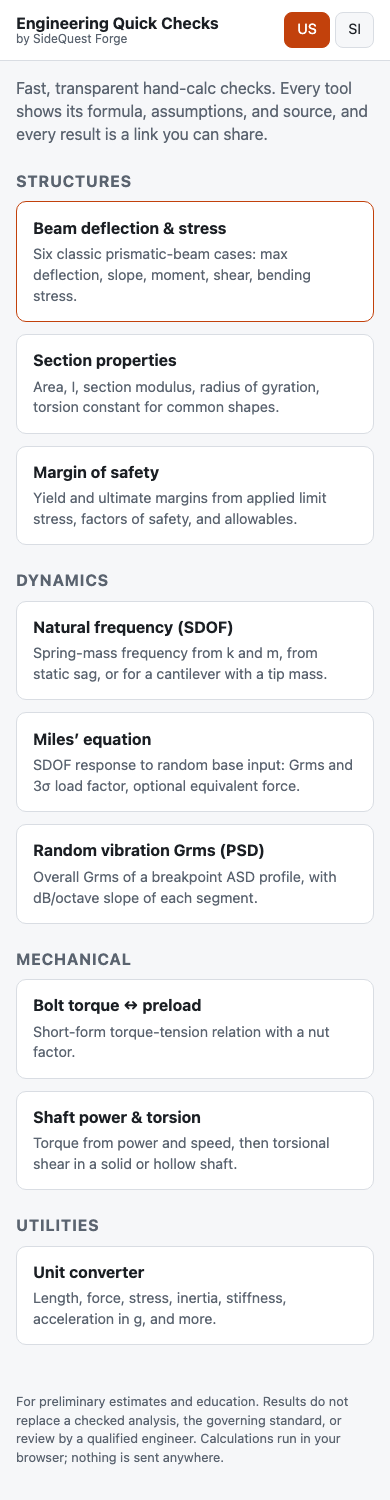
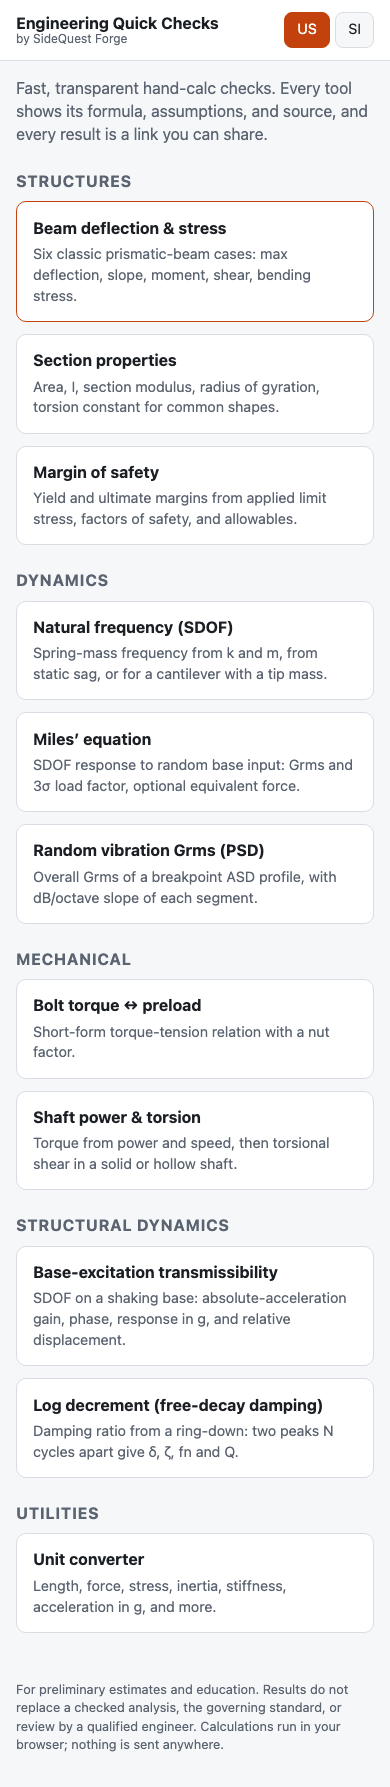
Add log decrement (free-decay damping) calculator with live ring-down plot

Changed region(s): [[0.0308, 0.0, 0.9538, 0.9813], [0.5846, 0.8587, 0.7385, 0.8893], [0.0308, 0.184, 0.0615, 0.2147]]

diff --git a/docs/tools.js b/docs/tools.js
@@ -242,4 +242,44 @@ export const TOOLS = [
       'Phase is response lag relative to base acceleration; peak TR is the closed-form peak of the TR curve (slightly above r = 1 for ζ > 0).'],
     refs: 'Rao, Mechanical Vibrations, base excitation; Harris & Piersol, Shock and Vibration Handbook, Ch. 3.',
   },
+  {
+    id: 'logdec', title: 'Log decrement (free-decay damping)', group: 'Structural Dynamics',
+    blurb: 'Damping ratio from a ring-down: two peaks N cycles apart give δ, ζ, fn and Q.',
+    inputs: [
+      { key: 'fd', label: 'Ringing frequency fd (measured)', dim: 'frequency', unit: 'Hz', def: [10, 10] },
+      { key: 'x1', label: 'First peak x₁', dim: 'length', def: [0.4, 10] },
+      { key: 'xN', label: 'Peak N cycles later', dim: 'length', def: [0.083, 2.075] },
+      { key: 'N', label: 'Cycles between peaks N', dim: 'none', def: [5, 5] },
+    ],
+    outputs: [
+      { key: 'zeta', label: 'Damping ratio ζ', dim: 'none' },
+      { key: 'delta', label: 'Log decrement δ', dim: 'none' },
+      { key: 'fn', label: 'Undamped natural frequency fn', dim: 'frequency' },
+      { key: 'Q', label: 'Q = 1/(2ζ)', dim: 'none' },
+      { key: 'approx_err_pct', label: 'Error of ζ ≈ δ/2π (%)', dim: 'none' },
+      { key: 'n_half', label: 'Cycles to halve amplitude', dim: 'none' },
+      { key: 't_half', label: 'Time to halve amplitude', dim: 'time' },
+    ],
+    compute: (v) => C.logDecrement({ fd: v.fd, x1: v.x1, xN: v.xN, N: v.N }),
+    demo: (v, canvas) => {
+      const t = C.logDecrement({ fd: v.fd, x1: v.x1, xN: v.xN, N: v.N }), cmax = v.N + 1.5;
+      const cs = Array.from({ length: 1200 }, (_, i) => i * cmax / 1199);
+      const env = (sgn) => ({ faint: true, pts: cs.map(c => [c, sgn * Math.exp(-t.delta * c)]) });
+      drawPlot(canvas, {
+        xmin: 0, xmax: cmax, ymin: -1, ymax: 1,
+        xlabel: 'Cycles of ringing (t · fd)', ylabel: 'x / x₁',
+        curves: [env(1), env(-1), { pts: cs.map(c => [c, C.ringdown(t.delta, c)]) }],
+        vline: { x: v.N, label: `N = ${v.N}` },
+        point: { x: v.N, y: v.xN / v.x1 },
+      });
+    },
+    formula: 'δ = (1/N)·ln(x₁/x₁₊N);  ζ = δ/√(4π² + δ²);  fn = fd/√(1 − ζ²);  Q = 1/(2ζ);  cycles to halve = ln 2/δ.  Symbols: x₁ a positive peak, x₁₊N the positive peak N cycles later, δ log decrement, ζ damping ratio, fd measured ringing (damped) frequency, fn undamped natural frequency.',
+    explain: ['Each cycle the peaks shrink by the same factor e^−δ, so the log of the peak ratio per cycle gives δ, and δ ≈ 2πζ for light damping.',
+      'Measuring over many cycles (larger N) averages out noise on any single peak; the δ/2π shortcut is within 1% up to ζ ≈ 0.14.',
+      'If δ changes with amplitude along the decay, the damping is not viscous (friction or joints); report ζ at the amplitude you care about.'],
+    assumptions: ['Single mode, linear, viscous damping, free decay (no forcing during the ring-down).',
+      'Peaks are positive displacement (or acceleration) peaks of the same sign; the ratio is unit-free, so the unit only needs to match.',
+      'The plot shows release from rest normalized to x₁, in cycles of the ringing frequency.'],
+    refs: 'Rao, Mechanical Vibrations, logarithmic decrement; Thomson & Dahleh, Theory of Vibration, Ch. 2.',
+  },
 ];

diff --git a/docs/calcs.js b/docs/calcs.js
@@ -167,3 +167,21 @@ export function transmissibility({ fn, zeta, f, baseG }) {
   const rel_disp_mm = baseG * G0 / (wn * wn) / Math.sqrt(d * d + c * c) * 1000;
   return { r, TR, phase_deg, resp_g: TR * baseG, rel_disp_mm, peak_TR };
 }
+
+// ---------- Structural dynamics: damped free vibration, log decrement (SDOF ring-down) ----------
+// Two positive peaks N cycles apart (any one length unit) and the ringing frequency fd (Hz).
+export function logDecrement({ fd, x1, xN, N }) {
+  if (!(fd > 0) || !(x1 > 0) || !(xN > 0) || !(xN < x1) || !Number.isInteger(N) || N < 1)
+    throw new Error('Need fd > 0, first peak > later peak > 0, and N a whole number of cycles ≥ 1.');
+  const delta = Math.log(x1 / xN) / N;
+  const u = (delta / (2 * Math.PI)) ** 2;           // (δ/2π)²
+  const zeta = delta / Math.sqrt(4 * Math.PI ** 2 + delta * delta);
+  const s = Math.sqrt(1 + u);                       // = 1/√(1−ζ²)
+  const n_half = Math.LN2 / delta;
+  return { delta, zeta, fn: fd * s, Q: 1 / (2 * zeta), zeta_approx: delta / (2 * Math.PI),
+    approx_err_pct: u / (s + 1) * 100,              // (δ/2π)/ζ − 1 = √(1+u) − 1, cancellation-free
+    n_half, t_half: n_half / fd };
+}
+
+// Release from rest, normalized: x/x1 after c damped cycles = e^(−δc)[cos 2πc + (δ/2π) sin 2πc].
+export const ringdown = (delta, c) => Math.exp(-delta * c) * (Math.cos(2 * Math.PI * c) + delta / (2 * Math.PI) * Math.sin(2 * Math.PI * c));

diff --git a/tests/smoke.py b/tests/smoke.py
@@ -4,7 +4,7 @@ import re, sys
 from playwright.sync_api import sync_playwright
 
 BASE = 'http://localhost:8765/'
-TOOLS = ['beam', 'section', 'sdof', 'miles', 'psd', 'margin', 'bolt', 'shaft', 'transmissibility', 'units']
+TOOLS = ['beam', 'section', 'sdof', 'miles', 'psd', 'margin', 'bolt', 'shaft', 'transmissibility', 'logdec', 'units']
 fails = []
 with sync_playwright() as p:
     b = p.chromium.launch()
@@ -36,6 +36,16 @@ with sync_playwright() as p:
     pg.locator('.row:has-text("Damping") input').fill('0.3'); pg.wait_for_timeout(100)
     if pg.evaluate(sig) == s0: fails.append(('transmissibility demo did not redraw',))
     pg.screenshot(path='screenshots/transmissibility-us.png', full_page=True)
+    pg.goto(BASE + '#/logdec'); pg.reload(); pg.wait_for_timeout(200)
+    n0 = pg.evaluate(NB); s0 = pg.evaluate(sig)
+    if n0 < 1000: fails.append(('logdec canvas blank', n0))
+    pg.locator('.row:has-text("Peak N cycles later") input').fill('0.2'); pg.wait_for_timeout(100)
+    if pg.evaluate(sig) == s0: fails.append(('logdec demo did not redraw',))
+    # refs/logdec.json case 2 by share link: page must show zeta 0.05, fn 10 Hz, Q 10, delta 0.3146
+    pg.goto(BASE + '#/logdec?fd=9.98749218~Hz&x1=10~mm&xN=2.07471041~mm&N=5'); pg.reload(); pg.wait_for_timeout(200)
+    shown = [o.inner_text() for o in pg.locator('.out output').all()]
+    if shown != ['0.05', '0.3146', '10', '10', '0.1252', '2.204', '0.2206']: fails.append(('logdec ref case shown', shown))
+    pg.screenshot(path='screenshots/logdec-us.png', full_page=True)
     # Known values
     pg.goto(BASE); pg.evaluate("localStorage.setItem('unitSystem','us')")
     pg.goto(BASE + '#/psd'); pg.reload(); pg.wait_for_timeout(150)
